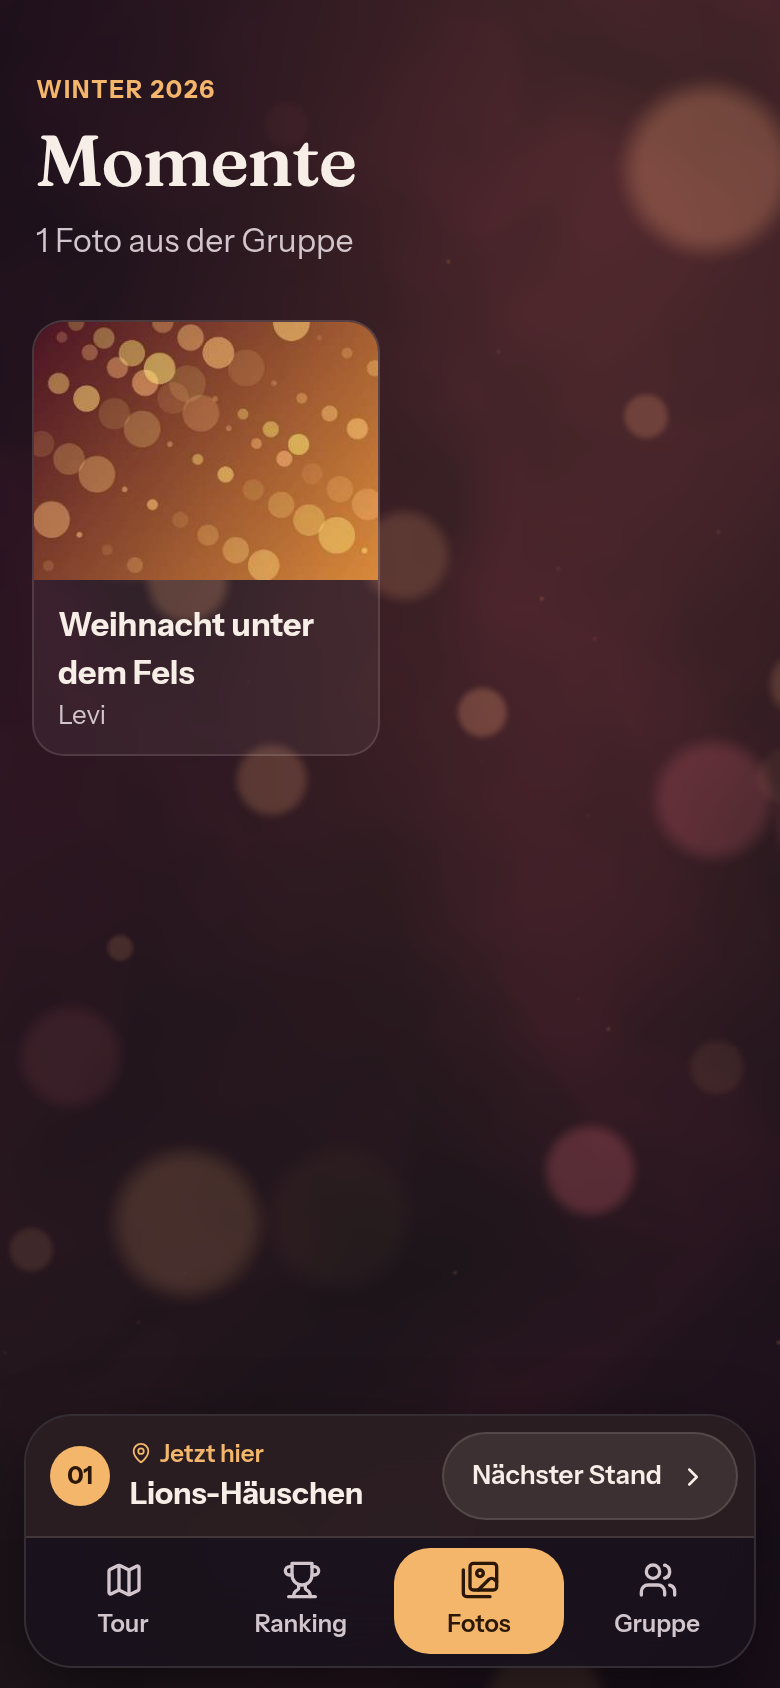
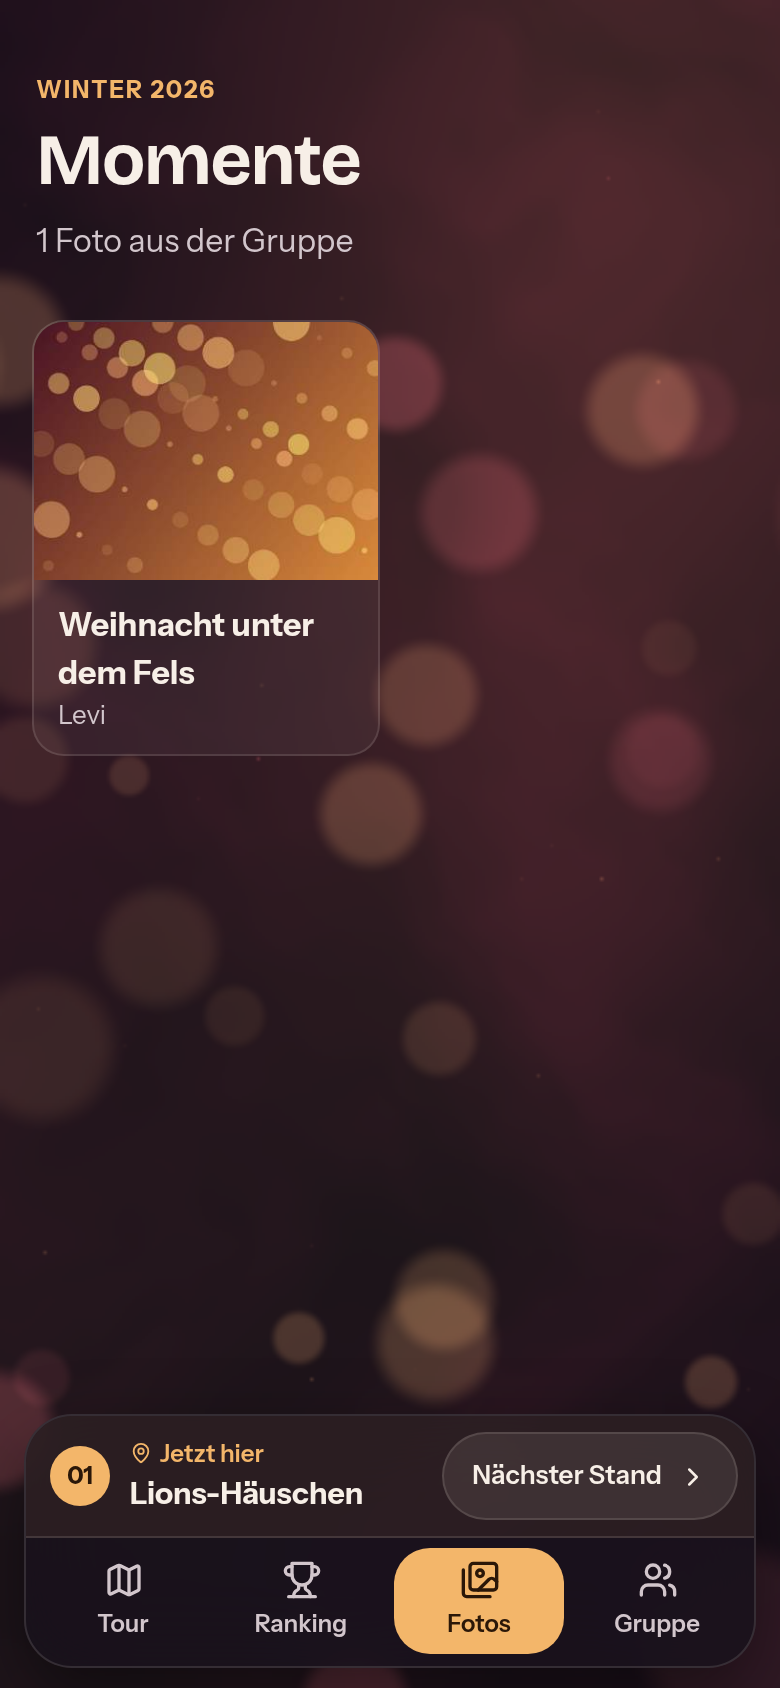
Design-Test Neu bereinigt: Treppchen und Bildkarten, neue Überschriften-Schrift, kein Leuchten
- Treppchen, Rangbalken und Bildkarten aus "Mutig" gelten jetzt auch für "Neu"
- Überschriften: Bricolage Grotesque (Polarlicht: Outfit) statt Fraunces, "26." ohne Verlauf
- Restliches Leuchten entfernt (Marker, Karten, Polarlicht-Schatten, Podium)
- Skip-Link, feste Bildmaße, touch-action: manipulation
- Neue Mobil-Screenshots in design-review/after

Claude-Session: https://claude.ai/code/session_01HBLPNU7waewuAfHJxNee8H

diff --git a/app/app.css b/app/app.css
@@ -34,6 +34,7 @@ html { background: var(--bg); overflow-x: hidden; overscroll-behavior-x: none; }
 body { margin: 0; overflow-x: hidden; overscroll-behavior-x: none; width: 100%; position: relative; background: var(--bg); color: var(--ink); font: 15px/1.5 var(--text); -webkit-font-smoothing: antialiased; }
 button, input, textarea { font: inherit; color: inherit; }
 button { cursor: pointer; -webkit-tap-highlight-color: transparent; }
+button, a, label, summary { touch-action: manipulation; }
 button:disabled { opacity: .5; cursor: wait; }
 a { color: inherit; }
 h1, h2, h3, p { margin: 0; }
@@ -192,7 +193,7 @@ h1, h2, .stats strong, .podium-score, .score-big > strong, .review-score, .rank-
 /* Fotos */
 .masonry { columns: 2; column-gap: 10px; }
 .photo { width: 100%; display: block; margin: 0 0 10px; padding: 0; overflow: hidden; break-inside: avoid; border: 1px solid var(--line); border-radius: 16px; background: var(--surface); text-align: left; }
-.photo img { width: 100%; }
+.photo img { width: 100%; height: auto; }
 .photo span { display: grid; padding: 10px 12px; }
 .photo small { color: var(--muted); font-size: 13px; }
 
@@ -756,7 +757,7 @@ li.ok .guide-icon { background: rgba(var(--pine-rgb), .16); color: var(--pine); 
 [data-bold] .winter-cup { inset: 14px 6px 40px 14px; }
 [data-bold] .cup-ring { display: block; position: absolute; left: 50%; top: 4px; width: 252px; height: 252px; transform: translateX(-50%) rotate(-90deg); overflow: visible; }
 [data-bold] .cup-ring-track { fill: none; stroke: rgba(var(--ink-rgb), .1); stroke-width: 2.5; }
-[data-bold] .cup-ring-fill { fill: none; stroke: var(--pine); stroke-width: 3.5; stroke-linecap: round; transition: stroke-dasharray .8s cubic-bezier(.2, .8, .2, 1); filter: drop-shadow(0 0 6px rgba(var(--pine-rgb), .45)); }
+[data-bold] .cup-ring-fill { fill: none; stroke: var(--pine); stroke-width: 3.5; stroke-linecap: round; transition: stroke-dasharray .8s cubic-bezier(.2, .8, .2, 1); }
 [data-bold] .cup-count { display: inline-block; position: absolute; left: 50%; bottom: 8px; transform: translateX(-50%); padding: 6px 14px; border-radius: 999px; background: rgba(var(--panel-rgb), .85); border: 1px solid var(--line); font-size: 13px; color: var(--muted); white-space: nowrap; }
 [data-bold] .cup-count b { font: 600 18px var(--display); color: var(--amber); margin-right: 2px; font-variant-numeric: lining-nums; }
 [data-bold] .hero-copy { justify-items: center; }
@@ -771,40 +772,61 @@ li.ok .guide-icon { background: rgba(var(--pine-rgb), .16); color: var(--pine); 
 [data-bold] .map-selected { padding-right: 16px; }
 [data-bold] .map-selected-main { padding-left: 16px; }
 
-/* 3 · Standkarten mit großem Bild oben */
-[data-bold] .stand-list { gap: 16px; }
-[data-bold] .stand-card { position: relative; flex-direction: column; align-items: stretch; gap: 0; padding: 0; overflow: hidden; }
-[data-bold] .stand-thumb { width: 100%; }
-[data-bold] .stand-thumb > img { width: 100%; height: auto; aspect-ratio: 16 / 9; border-radius: 0; object-fit: cover; object-position: center 62%; }
-[data-bold] .tick svg { width: 52px; height: 52px; padding: 10px; }
-[data-bold] .stand-main { padding: 14px 16px 16px; }
-[data-bold] .stand-main strong { font-size: 19px; }
-[data-bold] .stand-card .stack { position: absolute; top: 12px; right: 12px; flex-direction: row; }
-[data-bold] .stand-card .stack .avatar + .avatar { margin: 0 0 0 -8px; }
+/* Standkarten mit großem Bild oben (in „Neu“ und „Mutig“) */
+[data-design="neu"] .stand-list { gap: 16px; }
+[data-design="neu"] .stand-card { position: relative; flex-direction: column; align-items: stretch; gap: 0; padding: 0; overflow: hidden; }
+[data-design="neu"] .stand-thumb { width: 100%; }
+[data-design="neu"] .stand-thumb > img { width: 100%; height: auto; aspect-ratio: 16 / 9; border-radius: 0; object-fit: cover; object-position: center 62%; }
+[data-design="neu"] .tick svg { width: 52px; height: 52px; padding: 10px; }
+[data-design="neu"] .stand-main { padding: 14px 16px 16px; }
+[data-design="neu"] .stand-main strong { font-size: 19px; }
+[data-design="neu"] .stand-card .stack { display: none; }
 
-/* 4 · Ranking als Siegertreppchen + Balkenliste */
-[data-bold] .podium { gap: 8px; margin-top: 18px; }
-[data-bold] .podium li { display: flex; flex-direction: column; justify-content: flex-end; }
-[data-bold] .podium button, [data-bold] .podium .place-1 button { position: relative; background: none; border: 0; padding: 0 4px 10px; gap: 4px; box-shadow: none; }
-[data-bold] .podium img { width: 76px; height: 76px; border-radius: 50%; border: 3px solid rgba(var(--ink-rgb), .2); }
-[data-bold] .podium .place-1 img { width: 96px; height: 96px; border-color: var(--amber); box-shadow: 0 0 0 6px rgba(var(--accent-rgb), .15); }
-[data-bold] .podium .medal { display: none; }
-[data-bold] .crown { display: block; position: absolute; top: -26px; left: 50%; transform: translateX(-50%) rotate(-8deg); color: var(--amber); animation: crown-bob 2.6s ease-in-out infinite; }
+/* Ranking als Siegertreppchen + Balkenliste (in „Neu“ und „Mutig“) */
+[data-design="neu"] .podium { gap: 8px; margin-top: 18px; }
+[data-design="neu"] .podium li { display: flex; flex-direction: column; justify-content: flex-end; }
+[data-design="neu"] .podium button, [data-design="neu"] .podium .place-1 button { position: relative; background: none; border: 0; padding: 0 4px 10px; gap: 4px; box-shadow: none; }
+[data-design="neu"] .podium img { width: 76px; height: 76px; border-radius: 50%; border: 3px solid rgba(var(--ink-rgb), .2); }
+[data-design="neu"] .podium .place-1 img { width: 96px; height: 96px; border-color: var(--amber); box-shadow: 0 0 0 6px rgba(var(--accent-rgb), .15); }
+[data-design="neu"] .podium .medal { display: none; }
+[data-design="neu"] .crown { display: block; position: absolute; top: -26px; left: 50%; transform: translateX(-50%) rotate(-8deg); color: var(--amber); animation: crown-bob 2.6s ease-in-out infinite; }
 @keyframes crown-bob { 50% { transform: translateX(-50%) translateY(-4px) rotate(6deg); } }
-[data-bold] .podium-score { font-size: 26px; }
-[data-bold] .podium .place-1 .podium-score { font-size: 34px; }
-[data-bold] .pedestal { display: grid; place-items: center; border-radius: 14px 14px 4px 4px; background: linear-gradient(rgba(var(--ink-rgb), .14), rgba(var(--ink-rgb), .04)); border: 1px solid var(--line); border-bottom: 0; font: 600 30px var(--display); color: rgba(var(--ink-rgb), .55); }
-[data-bold] .place-1 .pedestal { height: 96px; background: linear-gradient(rgba(var(--accent-rgb), .45), rgba(var(--accent-rgb), .1)); color: var(--amber-ink); border-color: rgba(var(--accent-rgb), .5); }
-[data-bold] .place-2 .pedestal { height: 66px; }
-[data-bold] .place-3 .pedestal { height: 44px; font-size: 24px; }
-[data-bold] .rank-list { display: none; }
-[data-bold] .rank-bars { display: grid; gap: 8px; list-style: none; margin: 8px 0 0; padding: 0; }
-[data-bold] .rank-bars button { width: 100%; display: flex; align-items: center; gap: 12px; padding: 12px 14px; border-radius: 16px; border: 1px solid var(--line); background: rgba(var(--panel-rgb), .74); color: var(--ink); text-align: left; }
-[data-bold] .rank-bars li:first-child button { border-color: rgba(var(--accent-rgb), .5); }
-[data-bold] .rank-bars .rank { width: 26px; flex: none; font: 600 18px var(--display); color: var(--muted); text-align: center; }
-[data-bold] .rank-bar-main { flex: 1; min-width: 0; display: grid; gap: 6px; }
-[data-bold] .rank-bar-main strong { font-size: 15px; overflow: hidden; text-overflow: ellipsis; white-space: nowrap; }
-[data-bold] .rank-bar-main i { height: 8px; border-radius: 99px; background: rgba(var(--ink-rgb), .1); overflow: hidden; }
-[data-bold] .rank-bar-main i b { display: block; height: 100%; border-radius: 99px; background: var(--amber); }
-[data-bold] .rank-bars > li > button > b { flex: none; font: 600 22px var(--display); color: var(--amber); font-variant-numeric: lining-nums; }
-@media (prefers-reduced-motion: reduce) { [data-bold] .crown { animation: none; } }
+[data-design="neu"] .podium-score { font-size: 26px; }
+[data-design="neu"] .podium .place-1 .podium-score { font-size: 34px; }
+[data-design="neu"] .pedestal { display: grid; place-items: center; border-radius: 14px 14px 4px 4px; background: linear-gradient(rgba(var(--ink-rgb), .14), rgba(var(--ink-rgb), .04)); border: 1px solid var(--line); border-bottom: 0; font: 600 30px var(--display); color: rgba(var(--ink-rgb), .55); }
+[data-design="neu"] .place-1 .pedestal { height: 96px; background: linear-gradient(rgba(var(--accent-rgb), .45), rgba(var(--accent-rgb), .1)); color: var(--amber-ink); border-color: rgba(var(--accent-rgb), .5); }
+[data-design="neu"] .place-2 .pedestal { height: 66px; }
+[data-design="neu"] .place-3 .pedestal { height: 44px; font-size: 24px; }
+[data-design="neu"] .rank-list { display: none; }
+[data-design="neu"] .rank-bars { display: grid; gap: 8px; list-style: none; margin: 8px 0 0; padding: 0; }
+[data-design="neu"] .rank-bars button { width: 100%; display: flex; align-items: center; gap: 12px; padding: 12px 14px; border-radius: 16px; border: 1px solid var(--line); background: rgba(var(--panel-rgb), .74); color: var(--ink); text-align: left; }
+[data-design="neu"] .rank-bars li:first-child button { border-color: rgba(var(--accent-rgb), .5); }
+[data-design="neu"] .rank-bars .rank { width: 26px; flex: none; font: 600 18px var(--display); color: var(--muted); text-align: center; }
+[data-design="neu"] .rank-bar-main { flex: 1; min-width: 0; display: grid; gap: 6px; }
+[data-design="neu"] .rank-bar-main strong { font-size: 15px; overflow: hidden; text-overflow: ellipsis; white-space: nowrap; }
+[data-design="neu"] .rank-bar-main i { height: 8px; border-radius: 99px; background: rgba(var(--ink-rgb), .1); overflow: hidden; }
+[data-design="neu"] .rank-bar-main i b { display: block; height: 100%; border-radius: 99px; background: var(--amber); }
+[data-design="neu"] .rank-bars > li > button > b { flex: none; font: 600 22px var(--display); color: var(--amber); font-variant-numeric: lining-nums; }
+@media (prefers-reduced-motion: reduce) { [data-design="neu"] .crown { animation: none; } }
+
+/* ═════════ „Neu“ nach Taste-Skill: Überschriften-Schrift, kein Glow, kein Verlaufstext ═════════ */
+/* Fraunces ist laut Skill ein typischer KI-Default. Marktnacht/Tannenwald: Bricolage Grotesque (warm, eigenwillig),
+   Polarlicht: Outfit. Zuckerstange (Fredoka) und Schneekugel (Playfair) behalten ihre Schrift. */
+:root[data-design="neu"]:not([data-theme="zuckerstange"]):not([data-theme="schnee"]):not([data-theme="mitternacht"]) { --display: 'Bricolage Grotesque Variable', system-ui, sans-serif; }
+:root[data-design="neu"][data-theme="mitternacht"] { --display: 'Outfit Variable', system-ui, sans-serif; }
+[data-design="neu"] h1, [data-design="neu"] h2 { font-weight: 700; letter-spacing: -.025em; }
+[data-design="neu"] .hero h1 { font-weight: 800; letter-spacing: -.035em; line-height: .98; }
+/* Betonung in derselben Schrift: Farbe statt (künstlicher) Kursive, kein Verlaufstext */
+:root[data-design="neu"]:not([data-theme="zuckerstange"]) .hero h1 em { font-style: normal; color: var(--amber); background: none; -webkit-background-clip: border-box; background-clip: border-box; }
+/* Kein Leuchten: Ringe statt Glow */
+[data-design="neu"] .map-marker.current { animation: none; box-shadow: 0 0 0 3px var(--amber); }
+[data-design="neu"] .map-marker.selected { box-shadow: 0 0 0 3px rgba(var(--accent-rgb), .35); }
+[data-design="neu"] .stand-card.is-now { box-shadow: none; }
+[data-design="neu"][data-theme="mitternacht"] .card, [data-design="neu"][data-theme="mitternacht"] .stats, [data-design="neu"][data-theme="mitternacht"] .stand-card { box-shadow: none; }
+[data-design="neu"][data-theme="mitternacht"] .stats strong { text-shadow: none; }
+[data-design="neu"][data-theme="mitternacht"] .dock button.active { box-shadow: none; }
+[data-design="neu"] .podium .place-1 img { box-shadow: none; }
+
+/* Zum Inhalt springen (Tastatur, Screenreader) */
+.skip-link { position: absolute; left: 12px; top: -60px; z-index: 200; padding: 10px 14px; border-radius: 999px; background: var(--amber); color: var(--amber-ink); font-weight: 700; text-decoration: none; }
+.skip-link:focus { top: calc(10px + env(safe-area-inset-top)); }

diff --git a/app/page.tsx b/app/page.tsx
@@ -320,6 +320,7 @@ export default function Home() {
 
   return (
     <div className="app">
+      <a className="skip-link" href="#inhalt">Zum Inhalt springen</a>
       <BackgroundScene palette={themeById(theme).scene} />
       {intro && <Intro slogan={slogans[slogan]} onDone={finishIntro} />}
       {(syncProblem || flashLive) && !gate && (
@@ -329,7 +330,7 @@ export default function Home() {
         </button>
       )}
 
-      <main className="content">
+      <main className="content" id="inhalt">
         {gate && <section className="gate">
           <ShinyText>Willkommen</ShinyText>
           <h1>Eure Runde<br />beitreten.</h1>
@@ -392,7 +393,7 @@ export default function Home() {
                 const everyone = groupSize > 1 && rs.length >= groupSize;
                 return (
                   <SpotlightCard key={s.id} className={`stand-card${done ? ' is-done' : ''}${s.id === now ? ' is-now' : ''}`} onClick={() => setOpenStand(s)} label={`${s.name}, ${plural(rs.length, 'Bewertung', 'Bewertungen')}`}>
-                    <span className="stand-thumb"><img src={s.image} alt="" />{done && <span className="tick" aria-hidden="true"><Check size={22} strokeWidth={3} /></span>}</span>
+                    <span className="stand-thumb"><img src={s.image} alt="" width={64} height={76} loading="lazy" decoding="async" />{done && <span className="tick" aria-hidden="true"><Check size={22} strokeWidth={3} /></span>}</span>
                     <span className="stand-main">
                       <span className="stand-num">{stopNumber(s.id)}{s.id === now && <span className="here-tag">Jetzt hier</span>}{done && <span className="done"><Check size={11} /> abgehakt</span>}{everyone && <span className="done all">alle durch</span>}</span>
                       <strong>{s.name}</strong>
@@ -418,7 +419,7 @@ export default function Home() {
               {ranked.slice(0, 3).map((s, i) => (
                 <li key={s.id} className={`place-${i + 1}`}>
                   <button type="button" onClick={() => setOpenStand(s)}>
-                    <img src={s.image} alt="" />
+                    <img src={s.image} alt="" width={96} height={96} />
                     {i === 0 && <span className="crown" aria-hidden="true"><Crown size={22} /></span>}
                     <span className="medal">{i + 1}</span>
                     <strong>{s.name}</strong>
@@ -453,7 +454,7 @@ export default function Home() {
           <div className="masonry">
             {photos.map(p => (
               <button key={p.id} type="button" className="photo" onClick={() => setLightbox({ src: p.src, label: `${p.stand!.name} · ${p.author}` })}>
-                <img src={p.thumb || p.src} alt={`${p.stand!.name}, Foto von ${p.author}`} loading="lazy" decoding="async" /><span><strong>{p.stand!.name}</strong><small>{p.author}</small></span>
+                <img src={p.thumb || p.src} alt={`${p.stand!.name}, Foto von ${p.author}`} width={360} height={270} loading="lazy" decoding="async" /><span><strong>{p.stand!.name}</strong><small>{p.author}</small></span>
               </button>
             ))}
           </div>

diff --git a/components/NextPicker.tsx b/components/NextPicker.tsx
@@ -41,7 +41,7 @@ export default function NextPicker({ stands, current, suggestion, ownRated, bySt
           {options.map(({ s, m, done }) => (
             <li key={s.id}>
               <button type="button" className={`${done ? 'done' : ''}${s.id === suggestion ? ' suggested' : ''}`} onClick={() => onPick(s.id)}>
-                <img src={s.image || fallbackImage} alt="" />
+                <img src={s.image || fallbackImage} alt="" width={48} height={56} loading="lazy" decoding="async" />
                 <span className="next-main">
                   <small>{stopNumber(s.id)} · {s.place}{s.id === suggestion && <em className="here-tag">Vorschlag</em>}</small>
                   <strong>{s.name}</strong>

diff --git a/components/StandSheet.tsx b/components/StandSheet.tsx
@@ -31,7 +31,7 @@ export default function StandSheet({ stand, reviews, ownId, nasenId, isCurrent, 
   return (
     <dialog ref={dialog} className="sheet stand-sheet" aria-labelledby="stand-title" onCancel={e => { e.preventDefault(); onClose(); }} onClick={e => { if (e.target === e.currentTarget) onClose(); }}>
       <div className="sheet-media">
-        <img src={stand.image} alt="" />
+        <img src={stand.image} alt="" width={560} height={210} />
         <button type="button" className="icon-btn sheet-close" aria-label="Schließen" onClick={onClose}><X size={20} /></button>
         <span className="sheet-number">Stopp {stopNumber(stand.id)}{isCurrent && ' · Jetzt hier'}</span>
       </div>

diff --git a/app/layout.tsx b/app/layout.tsx
@@ -3,6 +3,7 @@ import '@fontsource-variable/fraunces';
 import '@fontsource-variable/instrument-sans';
 import '@fontsource-variable/bricolage-grotesque';
 import '@fontsource-variable/fredoka';
+import '@fontsource-variable/outfit';
 import '@fontsource-variable/playfair-display';
 import '@fontsource-variable/playfair-display/wght-italic.css';
 import 'maplibre-gl/dist/maplibre-gl.css';
